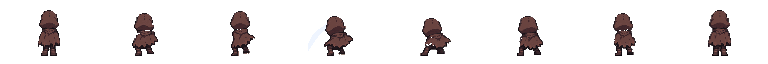
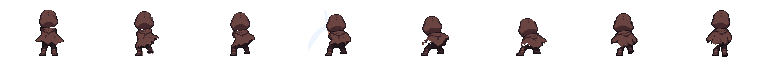
feat: 후면 1타를 PixelLab 그림으로, 베는 박자·잔상·내디딤
사용자: GPT 그림은 픽셀이 깨지고 어설프고, 측면·정면 기준으로 베는 느낌이 약함.
GPT 자세를 시작·끝으로 PixelLab 이 사이를 다시 그린 8장을 쓰고, 정면처럼 천천히 들어 위에서 멈췄다가
판정 순간(0.5)에 잔상과 함께 한 번에 내려벤다. 내려벨 때 몸을 앞으로 2픽셀 내디딘다.

diff --git a/game/config.py b/game/config.py
@@ -194,18 +194,27 @@ PLAYER_ATTACK_FRAME_SHIFTS_FRONT = (
 # export_to_game.py 가 뽑은 값. 두 손이 몸 앞(보는 사람 반대쪽)이라 칼은 늘 몸 뒤에 그려 몸 밖으로 나온 부분만 보인다.
 # 다섯째 값 0 = 칼이 몸에 완전히 가려지는 장 (그리지 않음: 서기, 1타 내려베는 잔상만 있는 장 등).
 PLAYER_ATTACK_SWORD_BACK = (
-    ((48, 27, -90, True, 0), (42, 38, 41, True), (46, 31, 50, True), (48, 27, -90, True, 0),
-     (50, 40, -157, True), (52, 34, -147, True), (50, 25, -129, True), (48, 27, -90, True, 0)),
+    # 1타 2차 (2026-11-18 사용자: GPT 그림은 픽셀이 깨지고 어설픔): PixelLab 이 GPT 자세 사이를 다시 그림, 4번째 = 잔상 장
+    ((54, 28, 107, True), (46, 31, 50, True), (46, 31, 60, True), (48, 27, -90, True, 0),
+     (46, 38, -149, True), (50, 40, -157, True), (51, 39, -148, True), (52, 36, -140, True)),
     ((48, 27, -90, True, 0), (50, 36, -143, True), (43, 43, -152, True), (56, 31, 60, True),
      (49, 24, 88, True), (47, 28, 64, True), (50, 34, 77, True), (48, 27, -90, True, 0)),
     ((48, 27, -90, True, 0), (54, 37, 90, True), (54, 37, 90, True), (51, 27, 87, True),
      (49, 23, 90, True), (49, 23, 90, True), (49, 29, 92, True), (48, 27, -90, True, 0)),
 )
 # 후면 타별 프레임 표 (None = 같은 간격). 2타는 올려베는 잔상이 4번째 장이라 판정 시점(0.25)에 그 장이 나오게 앞을 빨리 넘긴다.
+# 1타 (2026-11-18 사용자: 베는 느낌이 약함, 측면·정면 기준으로): 천천히 들어 올려 위에서 잠깐 멈췄다가(0.12~0.36)
+# 한 번에 내려벤다 — 잔상 장(4번째)이 판정 시점 0.5 를 감싸고, 뒤는 짧게 마무리.
 PLAYER_ATTACK_FRAME_ENDS_BACK = (
-    None,
+    (0.12, 0.36, 0.44, 0.6, 0.7, 0.82, 0.92, 1.0),
     (0.08, 0.16, 0.24, 0.36, 0.5, 0.66, 0.83, 1.0),
     None,
+)
+# 후면 그림 옮김 (원본 픽셀, (앞쪽 +, 위쪽 +)): 1타 내려벨 때 몸을 앞(화면 위)으로 2픽셀 내디딤 (베는 느낌, 2026-11-18).
+PLAYER_ATTACK_FRAME_SHIFTS_BACK = (
+    ((0, 0), (0, 0), (0, 1), (0, 2), (0, 2), (0, 2), (0, 1), (0, 0)),
+    ((0, 0),) * 8,
+    ((0, 0),) * 8,
 )
 # 두 손 잡기: 게임은 몸 → 칼 → 손 레이어(sword_attack/<방향>_N_hand.png) 순서로 그려 손이 칼을 쥔 모습이 된다.
 # 칼이 몸 뒤인 프레임(네 번째 값 True)은 칼 → 몸 순서로 그린다 (2타에서 칼을 머리 뒤로 넘길 때).

diff --git a/tests/test_player.py b/tests/test_player.py
@@ -664,18 +664,17 @@ class PlayerAttackTest(unittest.TestCase):
         self.assertEqual(attack_view(Facing.LEFT, 0), "side")
 
     def test_back_attack_hides_sword_when_covered(self):
-        # 후면 1타 첫 장(서기)은 칼이 몸에 완전히 가려져 칼을 그리지 않고, 들어 올린 장에서는 그린다
+        # 후면 1타 (2026-11-18 2차): 들어 올린 장은 칼을 그리고, 내려베는 잔상 장(판정 시점)은 칼이 잔상 속이라 그리지 않는다
         self.player.facing = Facing.UP
         self.click()
         renderer = _RecordingRenderer()
         self.player.draw(renderer)
-        names = [c[0] for c in renderer.calls]
-        self.assertNotIn("draw_image_rotated", names)
-        self.assertEqual(renderer.calls[0][1][0], attack_sheet_path(1, "back"))
-        self.run_for(self.player.combo.current.duration * 0.3)  # 들어 올린 장 (칼날이 어깨 위로 보임)
+        self.assertIn("draw_image_rotated", [c[0] for c in renderer.calls])
+        self.run_for(self.player.combo.current.duration * 0.5)  # 판정 시점: 잔상 장
         renderer = _RecordingRenderer()
         self.player.draw(renderer)
-        self.assertIn("draw_image_rotated", [c[0] for c in renderer.calls])
+        self.assertNotIn("draw_image_rotated", [c[0] for c in renderer.calls])
+        self.assertIn(attack_sheet_path(1, "back"), [c[1][0] for c in renderer.calls])
 
     def test_attack_sword_mirrors_when_facing_left(self):
         # 왼쪽: 손 위치를 좌우로 뒤집고, 칼은 뒤집은 뒤 반대 각도로 돌린다 (칼끝 방향 180 - 각도)

diff --git a/game/player/player.py b/game/player/player.py
@@ -528,7 +528,8 @@ class Player:
         if ends is not None:
             # 타별 프레임 표로 고른다 (휘두르는 그림을 판정 시점에 맞춤)
             frame = frame_for_progress(self.combo.current.progress, ends)
-            shifts = config.PLAYER_ATTACK_FRAME_SHIFTS_FRONT if view == "front" else config.PLAYER_ATTACK_FRAME_SHIFTS
+            shifts = {"front": config.PLAYER_ATTACK_FRAME_SHIFTS_FRONT,
+                      "back": config.PLAYER_ATTACK_FRAME_SHIFTS_BACK}.get(view, config.PLAYER_ATTACK_FRAME_SHIFTS)
             shift_x, shift_y = shifts[self.combo.index][frame]
         else:
             frame = self.combo.frame_index
